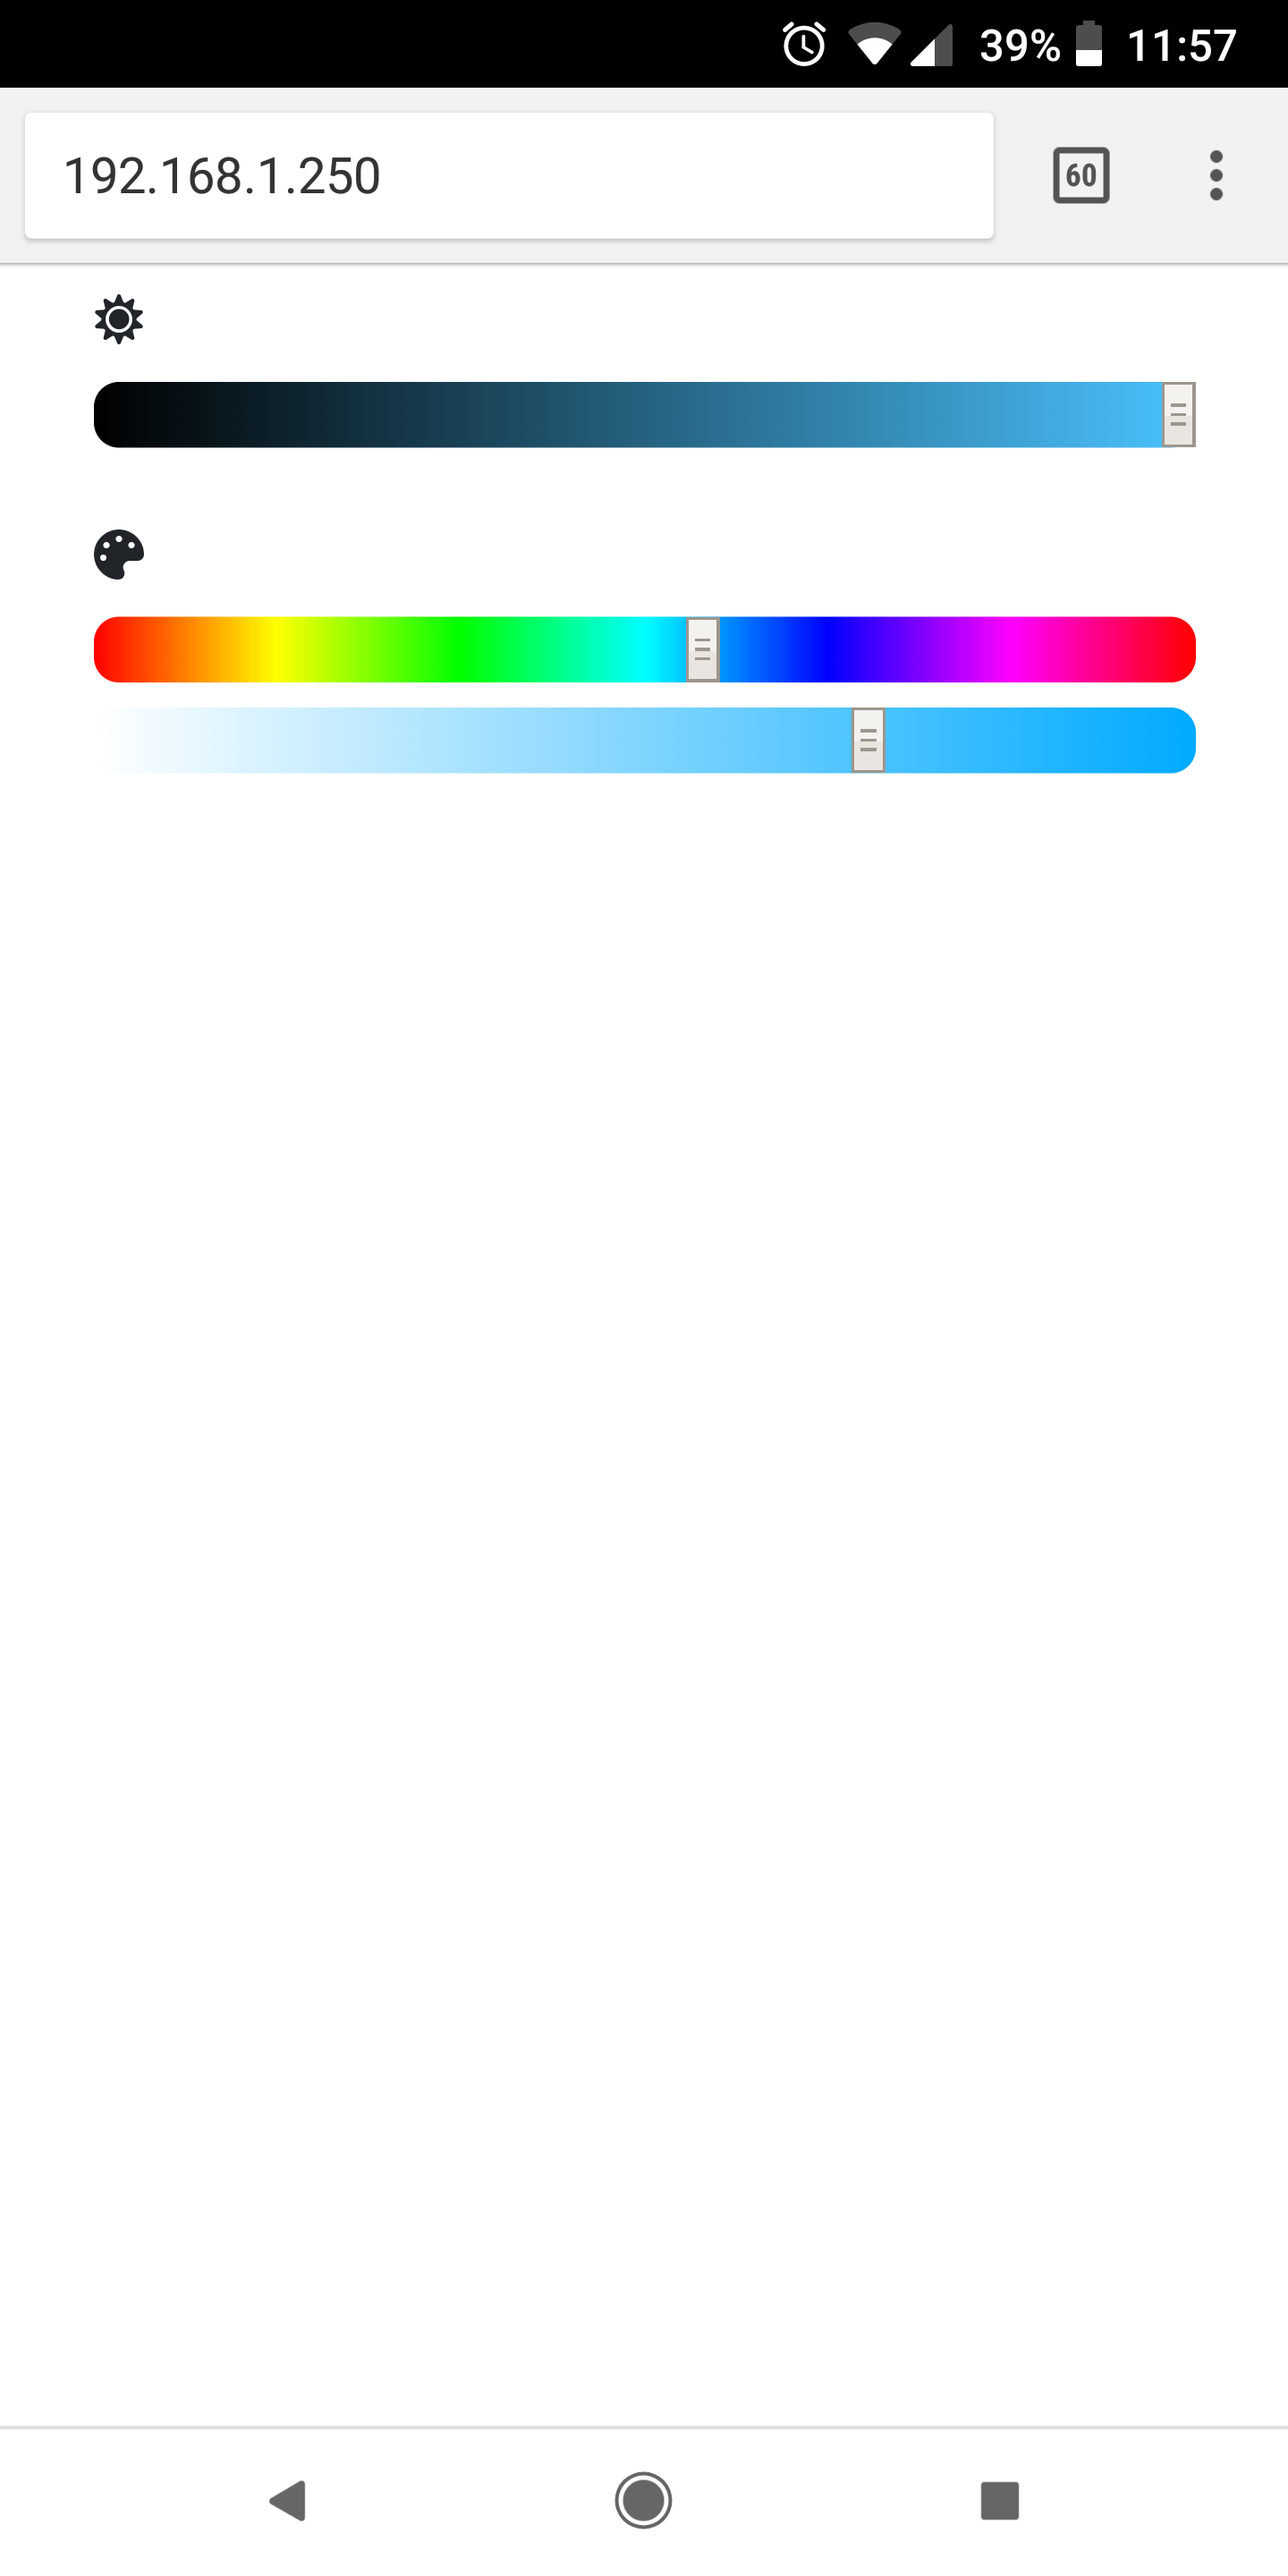
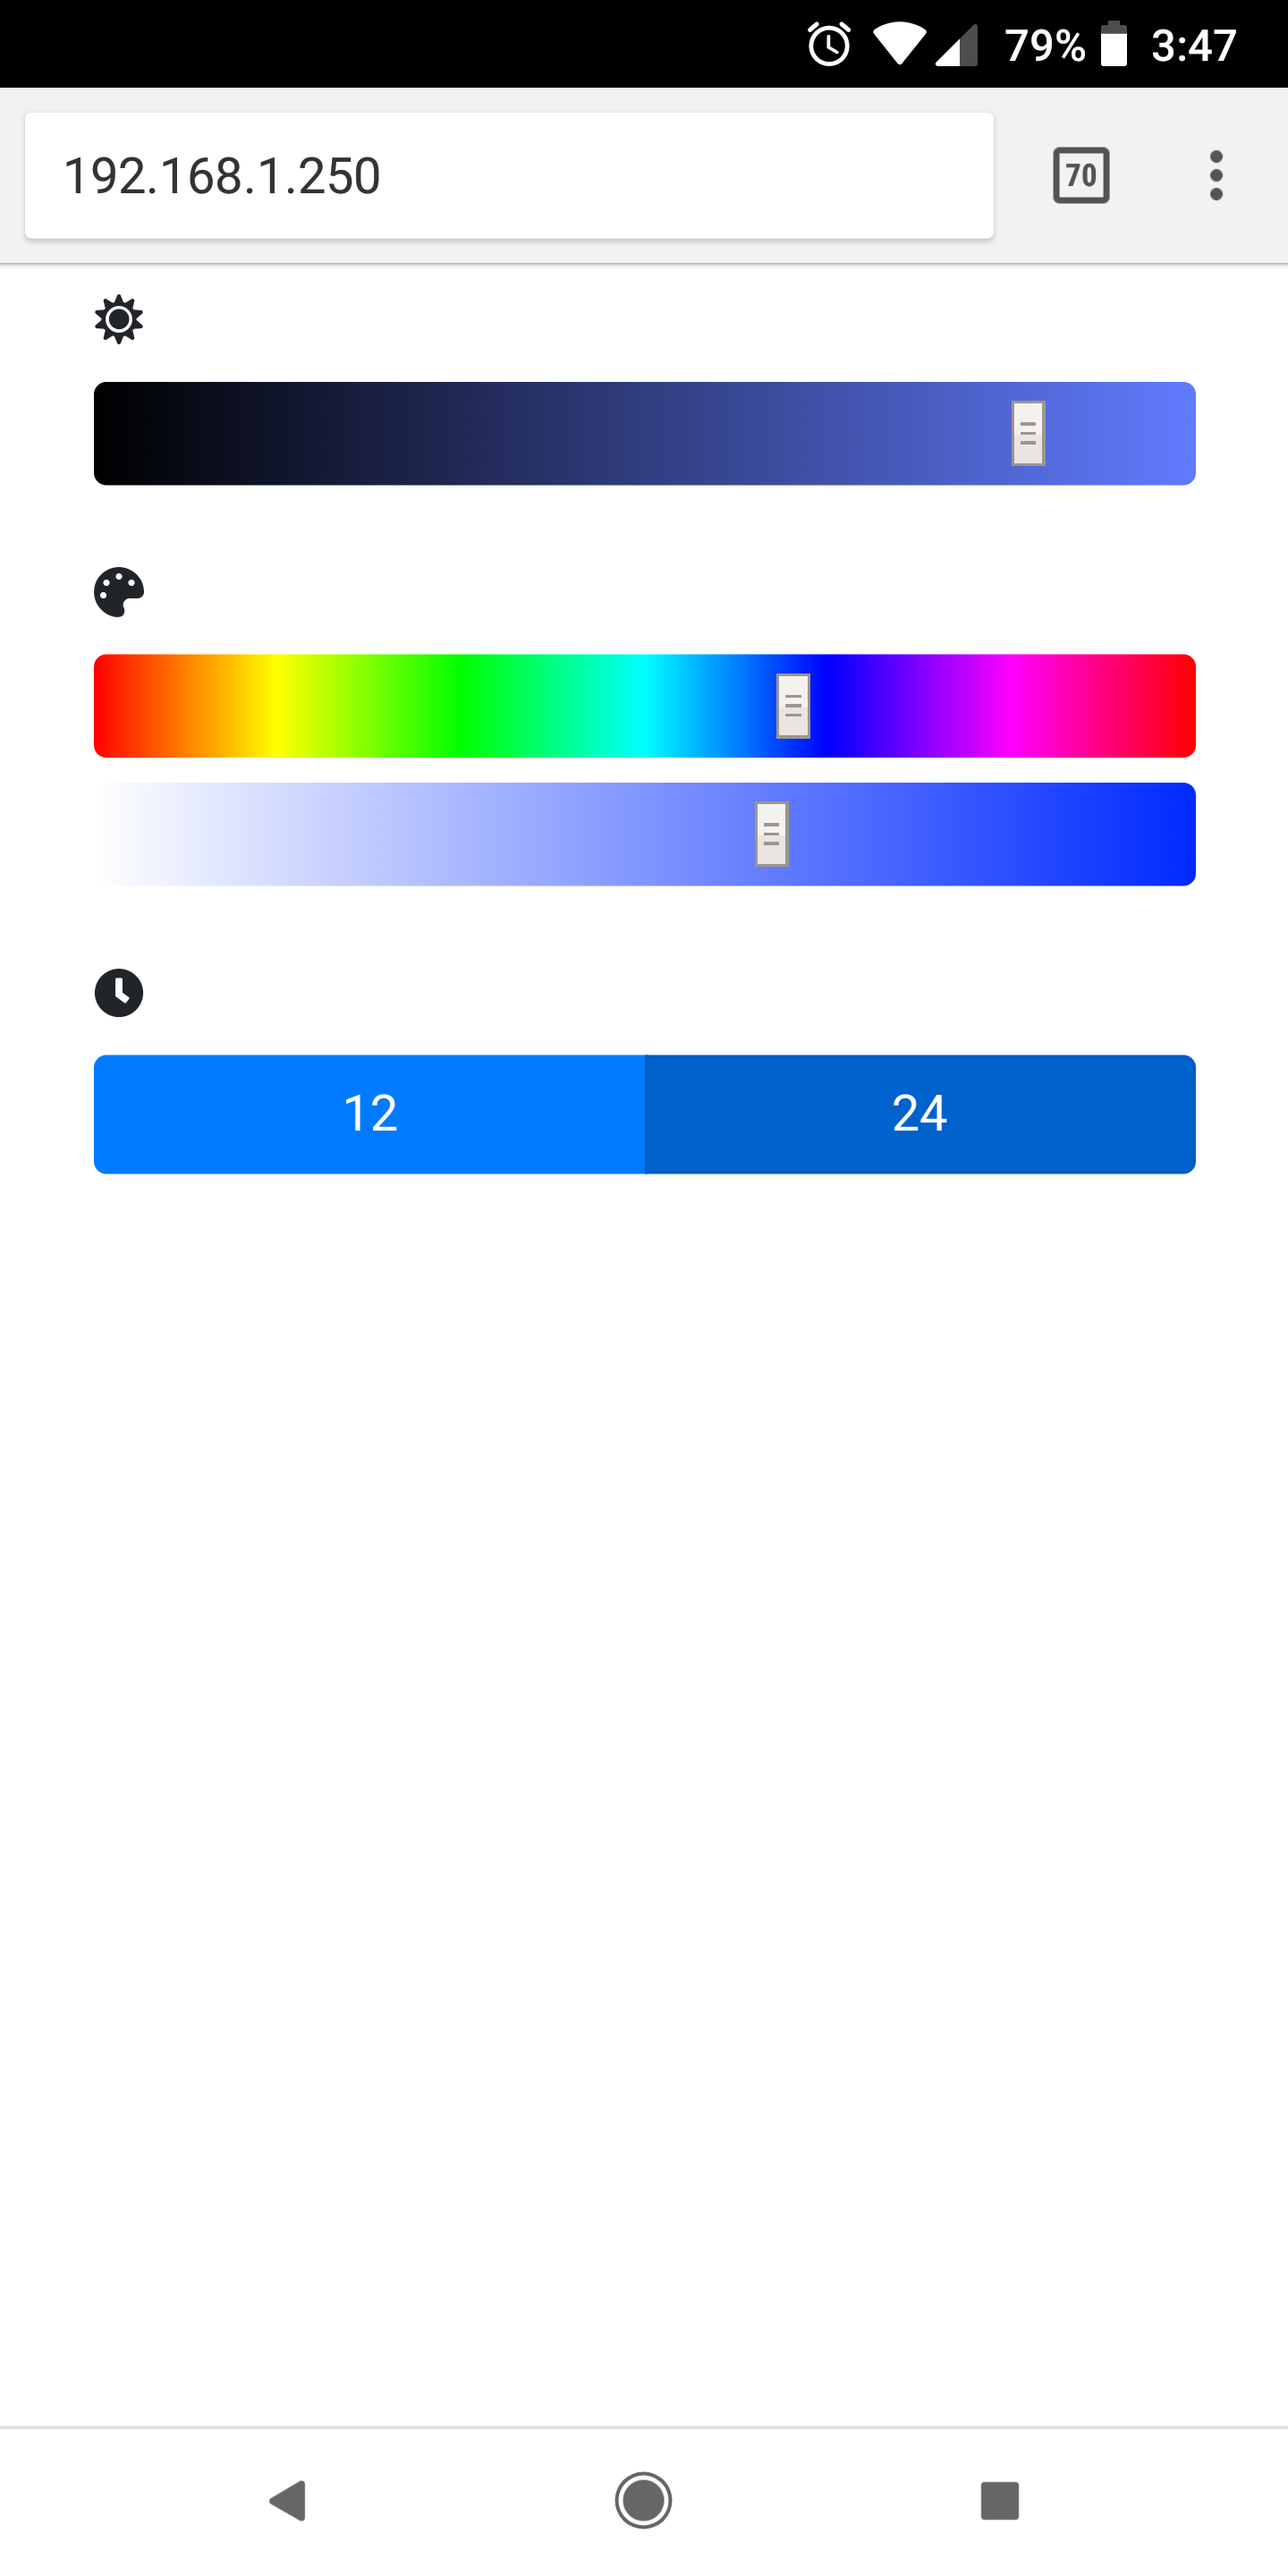
runtime configuration of 12-hour clock vs 24-hour clock and change default to 24-hour clock (fixes #3)

Changed region(s): [[0.0625, 0.125, 0.9375, 0.3438], [0.0625, 0.375, 0.9375, 0.4688], [0.5938, 0.0, 0.9375, 0.0312]]

diff --git a/Arduino/data/index.html b/Arduino/data/index.html
@@ -9,7 +9,8 @@
 <style>
 input[type="range"] {
 	-webkit-appearance: none;
-	border-radius: .5em;
+	border-radius: .25rem;
+	padding: 0.375rem 0;
 }
 input[type=range]::-moz-range-track {
 	background: transparent;
@@ -22,7 +23,7 @@ input[type=range]::-moz-range-track {
 	<div class="form-group form-inline">
 		<label for="valrange" class="col-sm-1 col-form-label"><i class="fas fa-sun" aria-hidden title="Brightness"></i><span class="sr-only">Brightness:</span></label>
 		<div class="col-sm-11">
-			<input type="range" min="0" max="100" value="25" class="form-control-range" id="valrange" title="brightness">
+			<input type="range" min="0" max="100" value="50" class="form-control-range" id="valrange" title="brightness">
 		</div>
 	</div>
 	<div class="form-group form-inline">
@@ -32,8 +33,24 @@ input[type=range]::-moz-range-track {
 			<input type="range" min="0" max="100" value="100" class="form-control-range mt-2" id="satrange" title="saturation">
 		</div>
 	</div>
+	<div class="form-group form-inline">
+		<label class="col-sm-1 col-form-label"><i class="fas fa-clock" aria-hidden title="Clock"></i><span class="sr-only">Clock:</span></label>
+		<div class="col-sm-11">
+			<div class="btn-group btn-group-toggle d-flex" data-toggle="buttons">
+			  <label class="btn btn-primary w-100">
+				<input type="radio" name="clock" id="clock12" autocomplete="off" value="12">12
+			  </label>
+			  <label class="btn btn-primary w-100">
+				<input type="radio" name="clock" id="clock24" autocomplete="off" value="24">24
+			  </label>
+			</div>
+		</div>
+	</div>
 </form>
 </div>
+<script src="https://code.jquery.com/jquery-3.3.1.slim.min.js" integrity="sha384-q8i/X+965DzO0rT7abK41JStQIAqVgRVzpbzo5smXKp4YfRvH+8abtTE1Pi6jizo" crossorigin="anonymous"></script>
+<script src="https://cdnjs.cloudflare.com/ajax/libs/popper.js/1.14.3/umd/popper.min.js" integrity="sha384-ZMP7rVo3mIykV+2+9J3UJ46jBk0WLaUAdn689aCwoqbBJiSnjAK/l8WvCWPIPm49" crossorigin="anonymous"></script>
+<script src="https://stackpath.bootstrapcdn.com/bootstrap/4.1.3/js/bootstrap.min.js" integrity="sha384-ChfqqxuZUCnJSK3+MXmPNIyE6ZbWh2IMqE241rYiqJxyMiZ6OW/JmZQ5stwEULTy" crossorigin="anonymous"></script>
 <script>
 // https://codeburst.io/throttling-and-debouncing-in-javascript-b01cad5c8edf
 const throttle = (func, limit) => {
@@ -91,6 +108,14 @@ huerange.style.background = huerangeBackground;
 
 updateBackground();
 
+$('input[type=radio][name=clock]').change(function() {
+	console.log(this.value);
+	var xmlHttp = new XMLHttpRequest();
+	xmlHttp.open("PUT", "clock");
+	xmlHttp.setRequestHeader('Content-Type', 'application/json');
+	xmlHttp.send(this.value);
+});
+
 (function loadConfig() {
 	var xmlHttp = new XMLHttpRequest();
 	xmlHttp.onreadystatechange = function()
@@ -99,13 +124,24 @@ updateBackground();
 		{
 			var json = xmlHttp.response;
 			console.log(json);
-			huerange.value = json.h;
-			satrange.value = json.s;
-			valrange.value = json.v;
+			var clock = json.clock;
+			if (clock === 12) {
+				//$('#clock12').closest('.btn').button('toggle');
+				$('#clock12').prop("checked", true).closest('.btn').addClass('active');
+				$('#clock24').closest('.btn').removeClass('active');
+			} else if (clock === 24) {
+				//$('#clock24').closest('.btn').button('toggle');
+				$('#clock24').prop("checked", true).closest('.btn').addClass('active');
+				$('#clock12').closest('.btn').removeClass('active');
+			}
+			var color = json.color;
+			huerange.value = color.h;
+			satrange.value = color.s;
+			valrange.value = color.v;
 			updateBackground();
 		}
 	}
-	xmlHttp.open("GET", "color");
+	xmlHttp.open("GET", "config");
 	xmlHttp.responseType = "json";
 	xmlHttp.send();
 })();

diff --git a/README.md b/README.md
@@ -32,9 +32,10 @@
 ![web UI](web.png)
 
 # TODO
-* runtime configuration of 12-hour vs 24-hour format
+* ~~runtime configuration of 12-hour vs 24-hour format~~
 * runtime configuration of location override
 * save color to config json
+* save 12-hour/24-hour to config json
 * ~~improve error handling from web services~~
 * ~~web UI for runtime configuration~~
 * etc.
